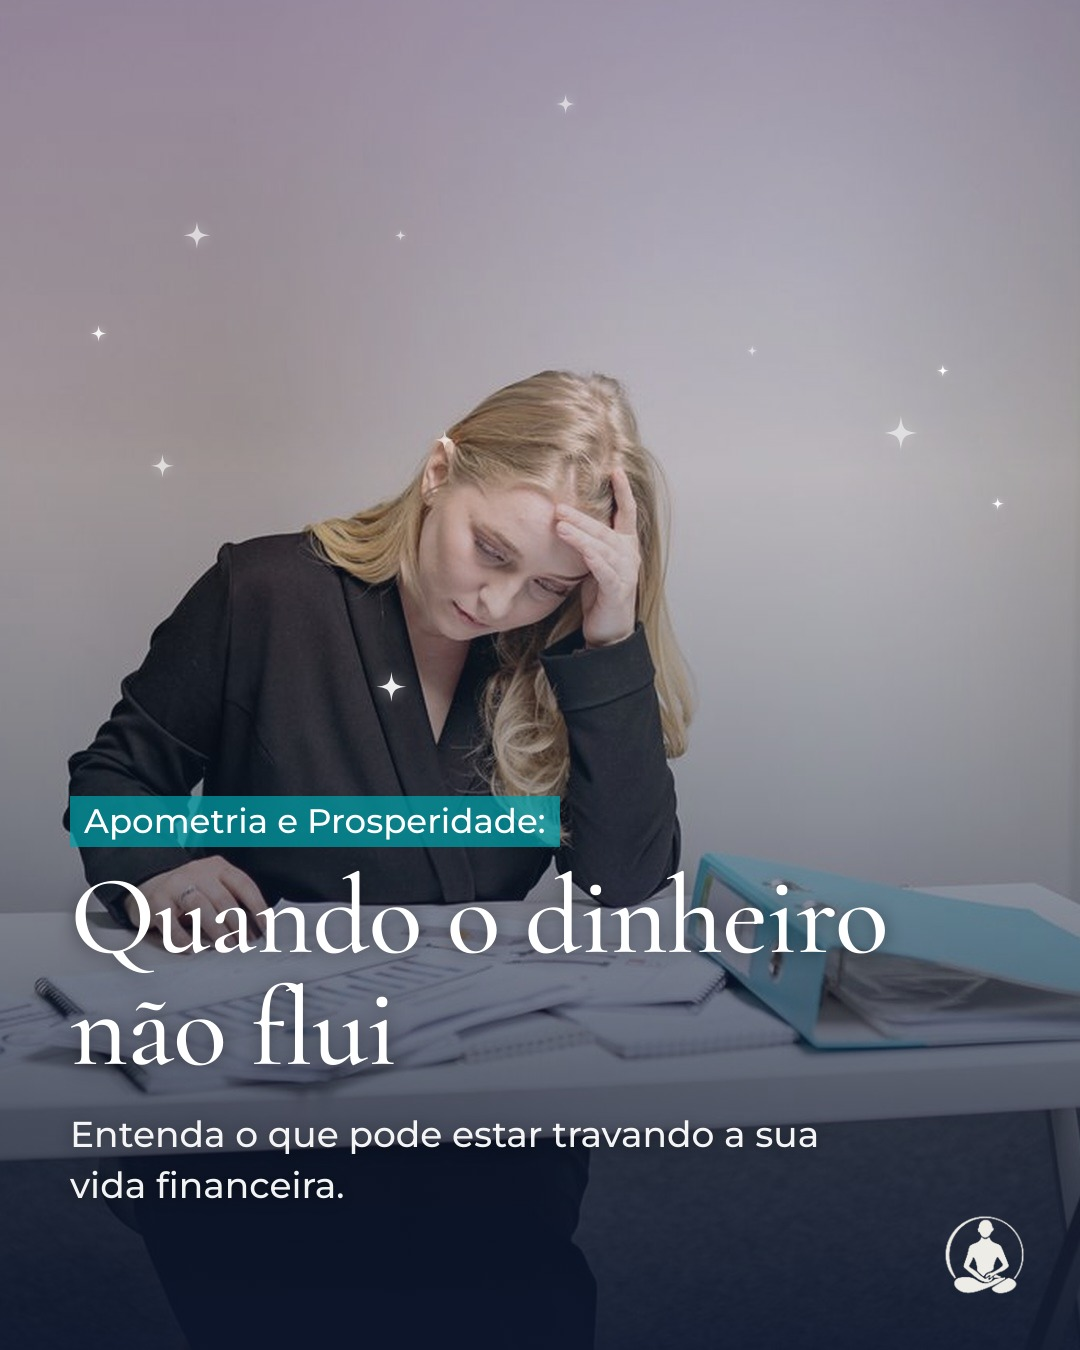
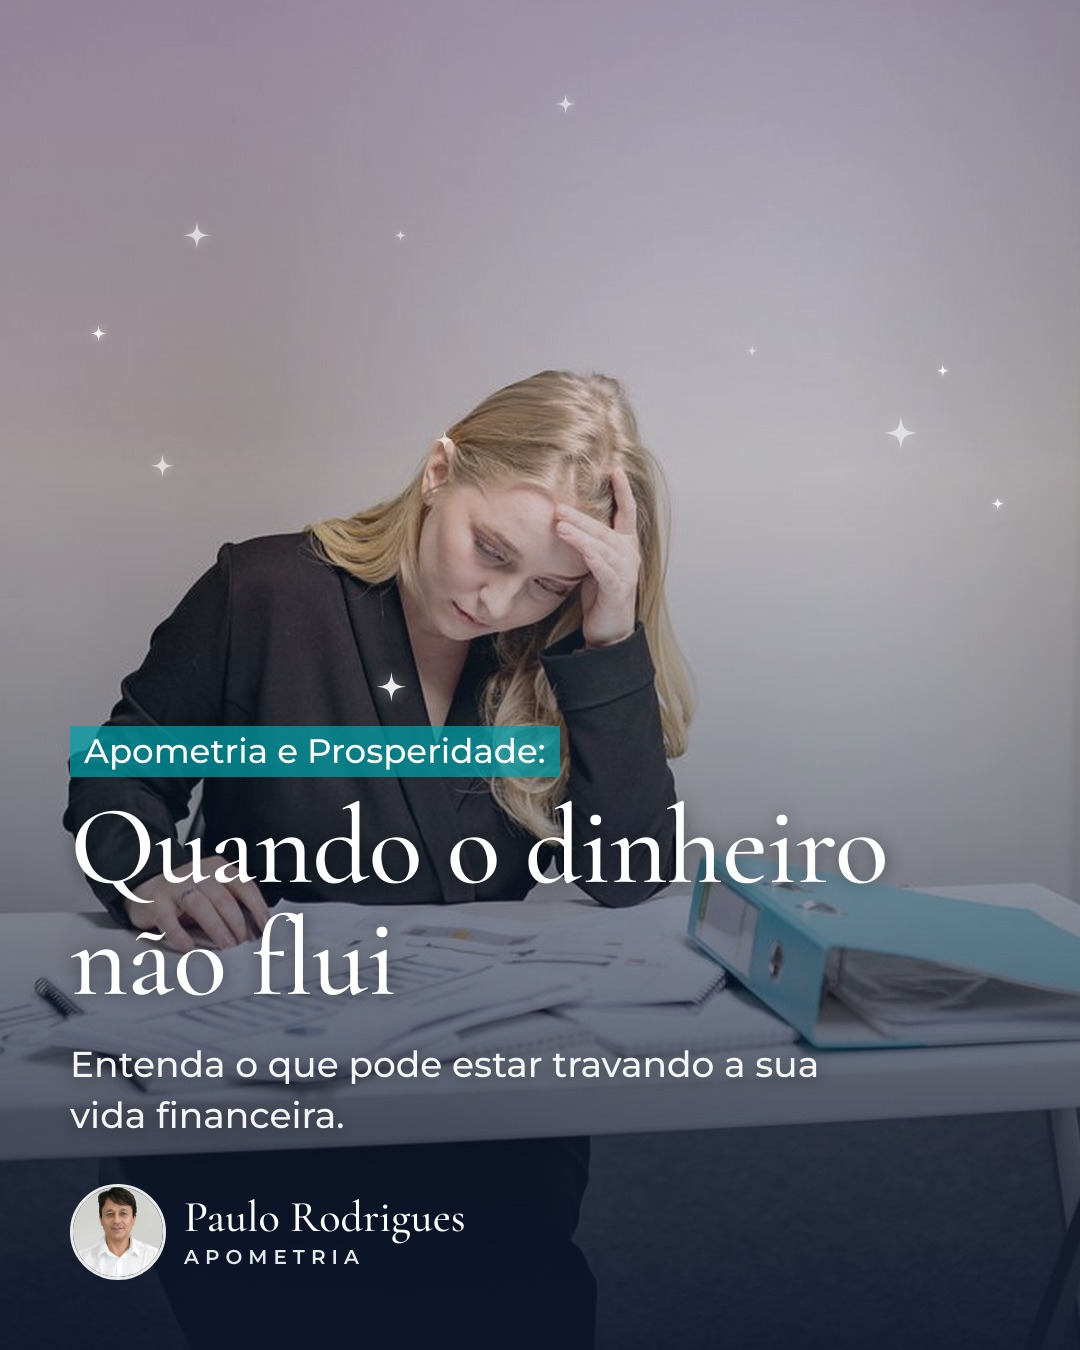
Assinatura do Paulo em todas as lâminas, sem o símbolo da Apometria Brasil
Claude-Session: https://claude.ai/code/session_01JEWNugGqZtfRNNpR6FEnd2

Changed region(s): [[0.0611, 0.5289, 0.825, 0.9644], [0.8556, 0.9022, 0.9472, 0.9644], [0.6722, 0.84, 0.7639, 0.8711]]

diff --git a/modelos/remotion/src/CarrosselAB.tsx b/modelos/remotion/src/CarrosselAB.tsx
@@ -3,7 +3,8 @@ import {AbsoluteFill, Img, staticFile, useCurrentFrame, continueRender, delayRen
 
 // Estilo do feed @apometria_brasil (análise de 24/11/2026): imagem cinematográfica na lâmina inteira,
 // tratamento lilás/turquesa, brilhos brancos, título em serifada fina branca à esquerda,
-// rótulo em caixinha turquesa translúcida, símbolo do logo no canto inferior direito.
+// rótulo em caixinha turquesa translúcida. Assinatura do Paulo (foto + nome) em todas as lâminas;
+// sem assinatura, usa o símbolo do logo no canto inferior direito.
 export type LaminaAB = {imagem: string; rotulo?: string; titulo: string; texto?: string; chamada?: string; assinatura?: boolean};
 export type PropsAB = {
   pasta: string;
@@ -50,7 +51,7 @@ export const CarrosselAB: React.FC<PropsAB> = ({pasta, fontes, logo, assinatura,
           <Brilho key={k} x={60 + random(`bx${i}-${k}`) * 960} y={60 + random(`by${i}-${k}`) * 700} s={0.35 + random(`bs${i}-${k}`) * 0.9} o={0.55 + random(`bo${i}-${k}`) * 0.45} />
         ))}
       </svg>
-      <div style={{position: 'absolute', left: 70, right: 120, bottom: l.assinatura ? 230 : 140, color: '#FFFFFF', textShadow: '0 2px 18px rgba(0,0,0,0.45)'}}>
+      <div style={{position: 'absolute', left: 70, right: 120, bottom: assinatura ? 210 : 140, color: '#FFFFFF', textShadow: '0 2px 18px rgba(0,0,0,0.45)'}}>
         {l.rotulo && (
           <div style={{display: 'inline-block', background: 'rgba(0,160,170,0.72)', padding: '6px 14px', fontFamily: 'AB-texto', fontWeight: 500, fontSize: capa ? 34 : 28, lineHeight: 1.15, marginBottom: 14, textShadow: 'none'}}>{l.rotulo}</div>
         )}
@@ -62,7 +63,7 @@ export const CarrosselAB: React.FC<PropsAB> = ({pasta, fontes, logo, assinatura,
           <div style={{display: 'inline-block', marginTop: 28, background: 'rgba(185,166,240,0.85)', color: '#FFFFFF', borderRadius: 14, padding: '12px 26px', fontFamily: 'AB-texto', fontWeight: 600, fontSize: 28, textShadow: 'none'}}>{l.chamada}</div>
         )}
       </div>
-      {l.assinatura && assinatura && (
+      {assinatura && (
         <div style={{position: 'absolute', left: 70, bottom: 70, display: 'flex', alignItems: 'center', gap: 18}}>
           <Img src={arq(assinatura.foto)} style={{width: 96, height: 96, borderRadius: '50%', objectFit: 'cover', border: '3px solid rgba(255,255,255,0.9)'}} />
           <div style={{color: '#FFFFFF'}}>
@@ -71,7 +72,7 @@ export const CarrosselAB: React.FC<PropsAB> = ({pasta, fontes, logo, assinatura,
           </div>
         </div>
       )}
-      <Img src={arq(logo)} style={{position: 'absolute', right: 56, bottom: 56, height: 78, width: 'auto', opacity: 0.95}} />
+      {!assinatura && <Img src={arq(logo)} style={{position: 'absolute', right: 56, bottom: 56, height: 78, width: 'auto', opacity: 0.95}} />}
     </AbsoluteFill>
   );
 };

diff --git a/marcas/apometria-brasil/aprendizados.md b/marcas/apometria-brasil/aprendizados.md
@@ -27,3 +27,4 @@ Os agentes leem este arquivo antes de criar.
 | 23/11/2026 | Carrossel prosperidade | Achou os textos "horríveis" (frases soltas, informais, tipo "tem coisa que não aparece no extrato") | Sim: escrever como no carrossel do alcoolismo — cada lâmina explica um ponto, frases completas, tom explicativo e acolhedor |
 | 24/11/2026 | Carrossel prosperidade | Trocar a assinatura "APOMETRIA BRASIL" por **"Terapeuta Paulo Rodrigues" com miniatura do rosto dele** (foto do perfil @apometria_brasil) | Sim: padrão em `identidade.json` (`assinatura`) |
 | 24/11/2026 | Design system | Os posts não estavam como ela gosta; o estilo real do feed é **imagem cinematográfica + lilás/turquesa + brilhos + serifada fina branca + rótulo turquesa + símbolo no canto** | Sim: novo modelo `CarrosselAB`; ver `marca.md` |
+| 24/11/2026 | Carrossel prosperidade | Colocar a assinatura "Paulo Rodrigues · Apometria" (com foto) em **todas** as lâminas e **tirar o símbolo da Apometria Brasil** | Sim: padrão do `CarrosselAB` |

diff --git a/marcas/apometria-brasil/marca.md b/marcas/apometria-brasil/marca.md
@@ -10,9 +10,9 @@
 - **Texto de apoio:** sem serifa limpa, branca (Montserrat 500/600).
 - **Rótulo:** caixinha turquesa translúcida com texto branco ("Apometria para Ansiedade:").
 - **Chamada:** botão lilás arredondado ("Clique aqui em SAIBA MAIS").
-- **Logo:** símbolo branco no canto inferior direito de toda lâmina.
+- **Logo:** ~~símbolo no canto~~ → **assinatura do Paulo (foto + "Paulo Rodrigues · Apometria") no rodapé de TODAS as lâminas**; o símbolo da Apometria Brasil não é mais usado (24/11/2026).
 - **Frases e depoimentos:** fundo de céu lilás/roxo; depoimento em cartão branco com nome, 5 estrelas douradas e texto.
-- **Assinatura:** foto do Paulo + "Paulo Rodrigues · Apometria" (na última lâmina).
+- **Assinatura:** foto do Paulo + "Paulo Rodrigues · Apometria", em todas as lâminas.
 - **Reels:** o Paulo de jaleco no consultório (mesa radiônica, quadro abstrato), título em serifada bold branca no alto.
 
 
